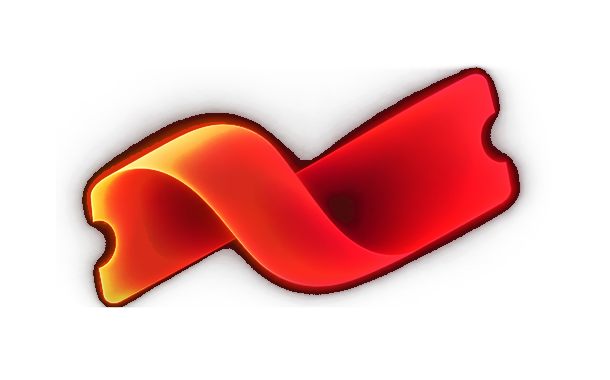
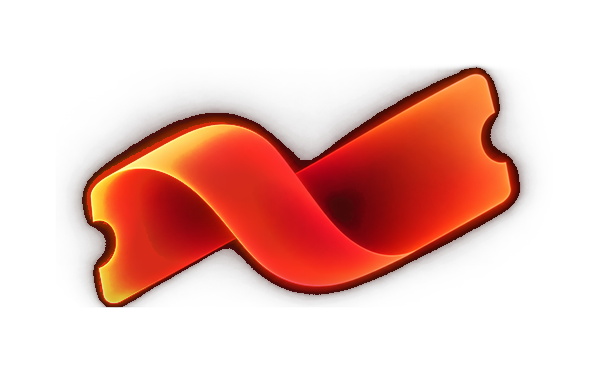
style: illuminate ticket right rim with warm amber highlight to balance crimson tone

Changed region(s): [[0.4984, 0.1737, 0.841, 0.7526]]

diff --git a/component/market/AnimatedTicketIcon.tsx b/component/market/AnimatedTicketIcon.tsx
@@ -27,9 +27,9 @@ export default function AnimatedTicketIcon({ className = '' }: AnimatedTicketIco
 
     // Load base ticket asset and mask
     const img = new window.Image();
-    img.src = '/ticket-darkblue.png?v=13';
+    img.src = '/ticket-darkblue.png?v=14';
     const mask = new window.Image();
-    mask.src = '/ticket-mask.png?v=13';
+    mask.src = '/ticket-mask.png?v=14';
 
     let loadedCount = 0;
     const onAssetLoad = () => {
